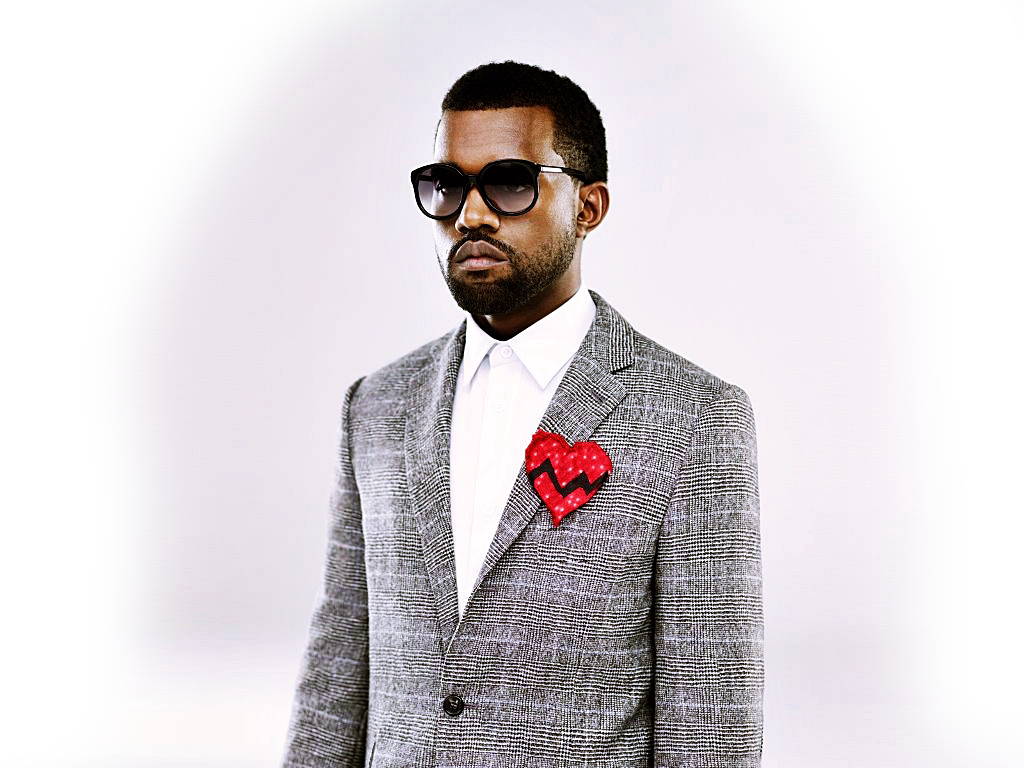
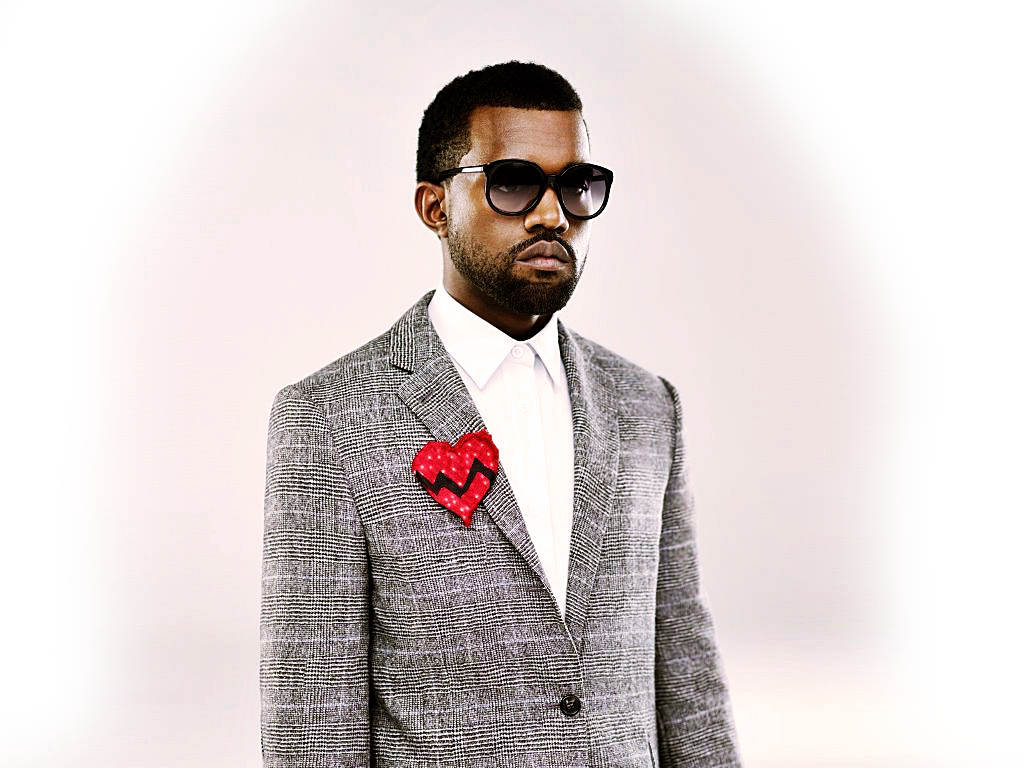
updated masthead image and brandname creation

Changed region(s): [[0.25, 0.0938, 0.75, 1.0], [0.4688, 0.0625, 0.5312, 0.0938]]

diff --git a/index.html b/index.html
@@ -34,9 +34,9 @@
         //INITIATING JQUERY
         jQuery(function($){
             $(document).ready(function(){
-                $('#hamburger').click(function(){
-                    $('#nav-ul').toggle(700);
-                });
+                
+                
+                
             });
         });
     </SCRIPT>
